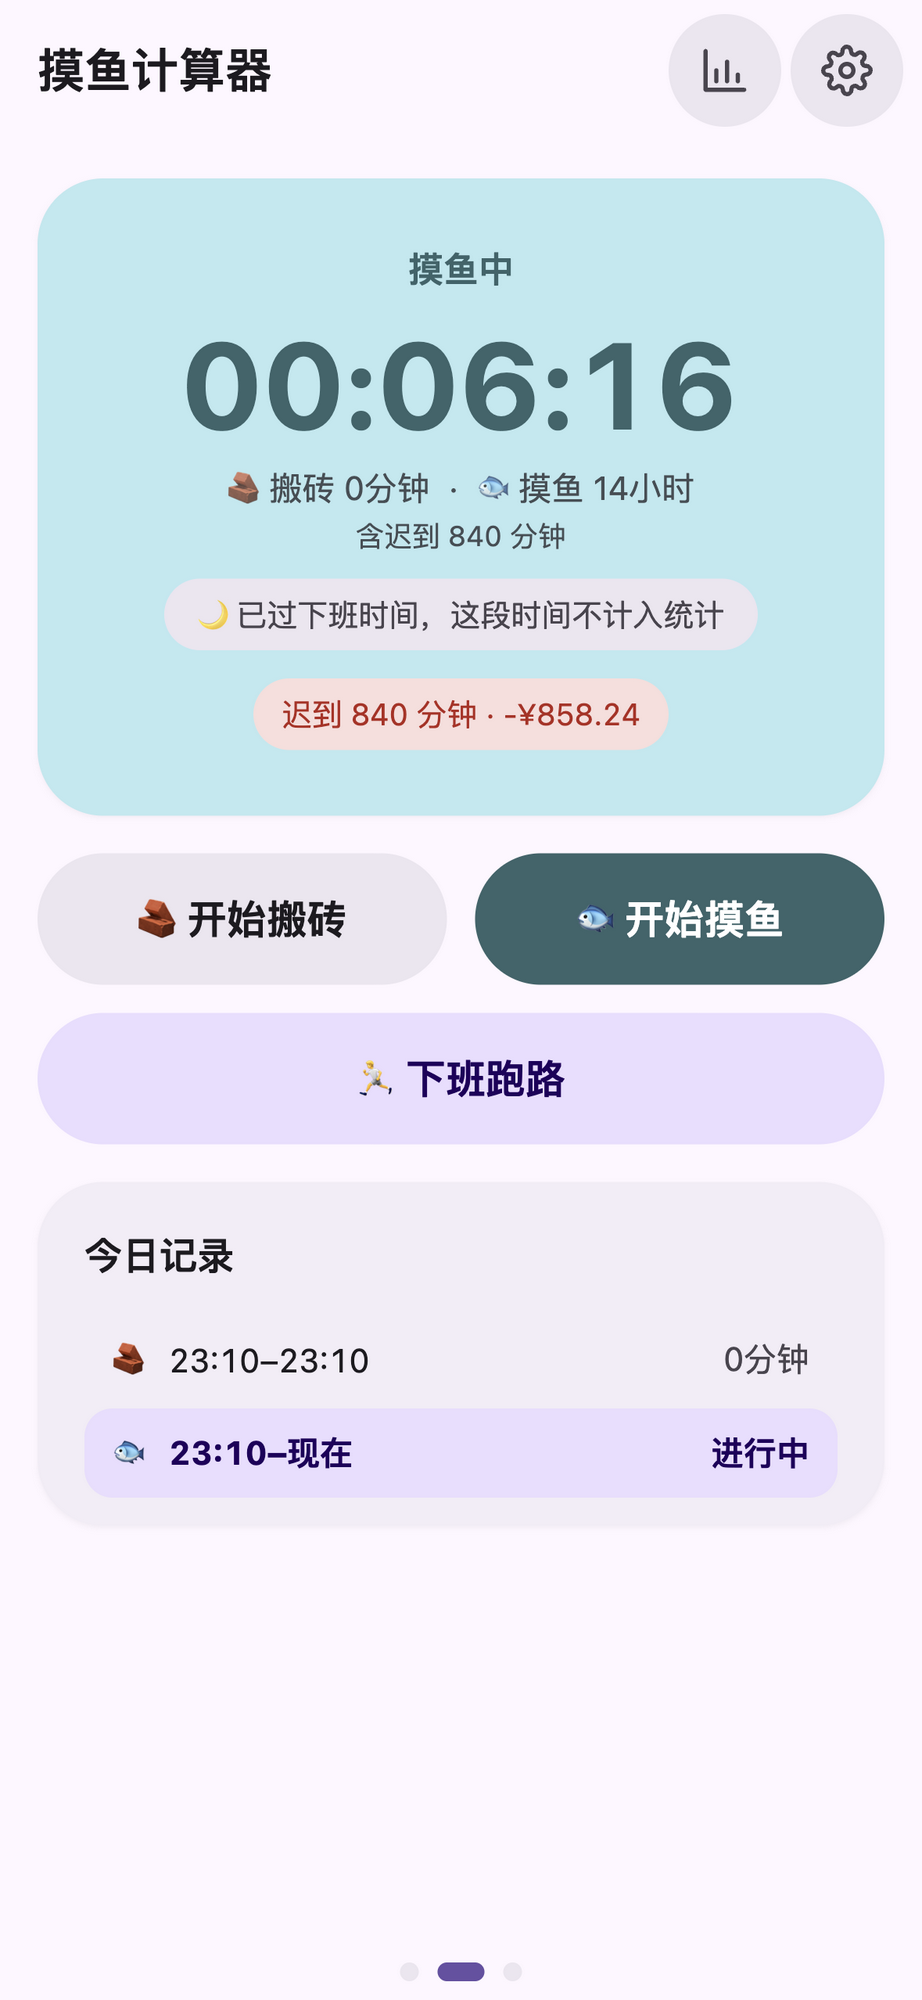
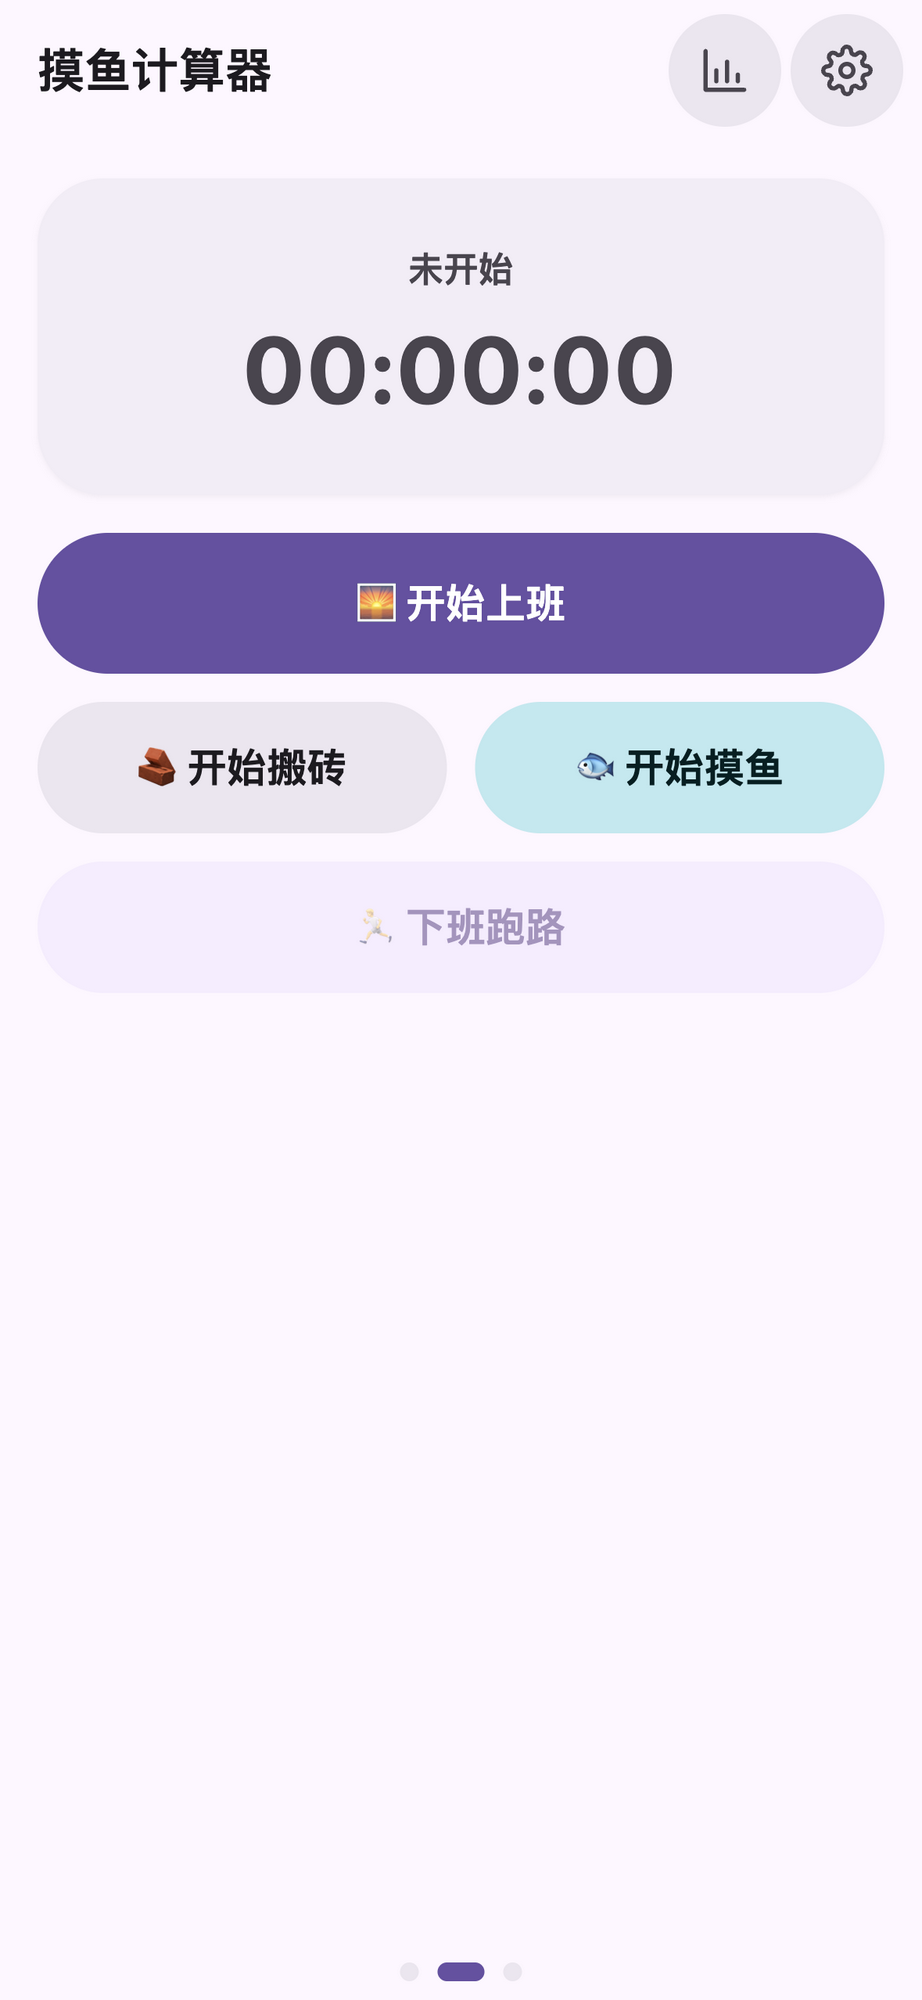
1.2.2
- README 重写：聚焦功能介绍与截图，移除快速开始/打包/技术栈等开发者向内容
- 新增设置页三张实拍截图（薪资作息、工作制度与节假日、日历覆盖与数据）
- 主操作页浅色截图替换为含「开始上班」按钮的 idle 状态版本

diff --git a/README.md b/README.md
@@ -7,84 +7,66 @@
 <p align="center">算算你今天白嫖了老板多少钱 🐟</p>
 
 <p align="center">
-  Vite + React 构建的移动端 PWA，可一键打包成安卓 APK<br/>
-  数据全部存在本地，老板和网络运营商都看不到
+  一款移动端摸鱼记账 PWA：打卡计时、迟到早退自动判定、按你的真实薪资把每一分钟摸鱼折算成钱<br/>
+  数据全部存在手机本地，老板和网络运营商都看不到
 </p>
 
 ---
 
-## 📱 长什么样
+## 📱 主界面
+
+「🌅 开始上班」打卡 → 「🧱 搬砖 / 🐟 摸鱼」随意切换 → 「🏃 下班跑路」收工。大号实时计时，「今日记录」逐段记下每一次切换；浅色深色双主题， Material You 风格。
 
 <p align="center">
-  <img src="docs/screenshots/main-light.png" width="220" alt="主操作页（浅色）" />
-  <img src="docs/screenshots/main-dark.png" width="220" alt="主操作页（深色）" />
-  <img src="docs/screenshots/daily-report.png" width="220" alt="日报" />
-  <img src="docs/screenshots/week-report.png" width="220" alt="周报" />
+  <img src="docs/screenshots/main-light.png" width="230" alt="主操作页（浅色）" />
+  <img src="docs/screenshots/main-dark.png" width="230" alt="主操作页（深色）" />
 </p>
 
-## ✨ 功能一览
+## 📊 报表
 
-**⏱ 打卡计时**
-- 「🌅 开始上班」打卡 → 「🧱 搬砖 / 🐟 摸鱼」随意切换 → 「🏃 下班跑路」收工
-- 大号实时计时，「今日记录」逐段列出每一次切换，账记得清清楚楚
-- 忘记按下班？当天 24:00 自动按下班时间结算
+主页横向滑动三页：日报 | 主操作 | 周报。
 
-**🧮 时间逻辑**
-- 上午 / 下午两段作息可配置（默认 09:00–12:00、13:30–18:00），午休自动剔除
-- 迟到（宽限期可改）、早退、加班自动判定，**迟到早退统统计入摸鱼**
-- 非工作时段计时照走，但会明确提示「不计入统计」
-
-**💰 薪资换算**
-- 填上月薪和年终奖，自动算出日薪和「每分钟价值」
-- 摸鱼、迟到、早退、加班全部折算成金额，日报大字展示**今日总白嫖金额**
-
-**📅 工作制度 & 节假日**
-- 双休 / 大小周（指定基准周六，隔周循环）/ 单休
-- 节假日三层判定：timor.tech API（本地缓存）→ 内置 2026 年完整官方放假调休表 → 手动逐日覆盖
-- 休息日自动不记账，显示「今天放假，摸鱼自由 🎉」
-
-**📊 报表与段位**
-- 主页横向滑动三页：日报 | 主操作 | 周报，月报独立成页
-- 周报：每日摸鱼柱状图 + 与上周对比；月报：搬砖 vs 摸鱼环形图 + 摸鱼最多的星期几
-- 快乐换算：本月摸鱼 ≈ X 杯奶茶（1 杯 = 15 元）
+- **日报**：今日搬砖 / 摸鱼 / 迟到 / 早退 / 加班的时长与金额，大字展示**今日总白嫖金额**和当日摸鱼段位
+- **周报**：本周每天摸鱼时长柱状图（休息日斜纹、法定节假日自动识别），与上周对比箭头
+- **月报**（独立页）：搬砖 vs 摸鱼环形图、累计摸鱼金额、快乐换算「本月摸鱼 ≈ X 杯奶茶」、摸鱼最多的星期几、月度段位
 - 五档摸鱼段位：🥉 青铜鱼 → 🥈 白银鱼 → 🍟 老油条 → 🐋 深海巨鲸 → 🏠 公司是我家
 
-**💾 数据**
-- 全部存 localStorage，刷新、杀后台、关屏重开都不丢
-- 设置即改即存，支持导出 / 导入 JSON 备份迁移
+<p align="center">
+  <img src="docs/screenshots/daily-report.png" width="230" alt="日报" />
+  <img src="docs/screenshots/week-report.png" width="230" alt="周报" />
+</p>
 
-**🎨 外观**
-- Material Design 3 (Material You) 风格：大圆角卡片、低饱和配色、深浅双主题
-- 适配手机竖屏，刘海屏 / 底部手势条安全区全处理
+## ⚙ 设置（一切皆可定制，即改即存）
 
-## 🚀 快速开始
+**💰 薪资**：填月薪和年终奖，实时算出「日薪」和「每分钟价值」——你摸的每一分钟鱼都有明码标价。
+**⏰ 作息**：上午 / 下午上下班时间四段可配（午休自动剔除，不计工时也不算摸鱼），迟到宽限期可改。
 
-```bash
-npm install
-npm run dev        # 开发预览 http://localhost:5173
-```
+<p align="center">
+  <img src="docs/screenshots/settings-salary.png" width="260" alt="设置：薪资与作息" />
+</p>
 
-```bash
-npm run build      # 构建到 dist/
-npm run preview    # 生产预览 http://localhost:4173
-```
+**📅 工作制度**：双休 / 大小周 / 单休；大小周指定一个「要上班的基准周六」，之后隔周自动循环。
+**🎨 外观**：跟随系统 / 浅色 / 深色。
 
-手机真机预览：`npm run dev -- --host`，手机连同一 Wi-Fi 访问电脑 IP 即可。
+<p align="center">
+  <img src="docs/screenshots/settings-scheme.png" width="260" alt="设置：工作制度、外观与节假日" />
+</p>
 
-## 📦 打包成安卓 APK
+**🏖 节假日**：自动查询当年放假调休安排并缓存本地，断网时用内置的 2026 年官方数据兜底。
+**🗓 日历覆盖**：哪天公司临时要求加班、哪天偷偷调休，点按即可逐日切换「自动 → 强制上班 → 强制休息」，优先级高于一切自动判定。法定节假日、调休上班日在日历里一目了然（图中 9/20 就是调休上班日）。
+**💾 数据**：一键导出 JSON 备份，换手机导入即恢复；本地存储，刷新、杀后台、关屏重开数据都不丢。
 
-项目已内置完整 PWA 配置（manifest、图标、service worker 离线缓存）：
+<p align="center">
+  <img src="docs/screenshots/settings-calendar.png" width="260" alt="设置：日历覆盖与数据备份" />
+</p>
 
-1. `npm run build`，把 `dist/` 部署到任意 HTTPS 托管（Netlify / Vercel / GitHub Pages）
-2. 打开 [PWABuilder](https://www.pwabuilder.com)，输入部署地址，检测全绿
-3. Package For Android → 下载 APK，传到手机安装即可
+## 🐟 一些贴心的细节
 
-## 🛠 技术栈
-
-- **Vite + React 19**，无 UI 框架，Material You 风格手写 CSS（浅色 / 深色双套 token）
-- **vite-plugin-pwa**：service worker 离线缓存，可安装到主屏幕
-- **零后端**：localStorage 持久化，纯函数时间/薪资/段位计算逻辑（`src/lib/`）
-- 节假日数据：[timor.tech API](https://timor.tech/api/holiday) + 内置 2026 年兜底表
+- 迟到、早退的时间**自动计入摸鱼**，累计摸鱼下方会标明「含迟到 X 分钟」
+- 非工作时段（上班前 / 午休 / 下班后）计时照走，但会明确提示「这段时间不计入统计」
+- 忘记按「下班跑路」？当天 24:00 自动按下班时间结算，一分加班费都不会漏记
+- 休息日整个操作区变成「🎉 今天放假，摸鱼自由」，不记账
+- 退到后台、锁屏、被杀进程再打开，计时从上次状态无缝继续
 
 ## ⚠ 免责声明
 
